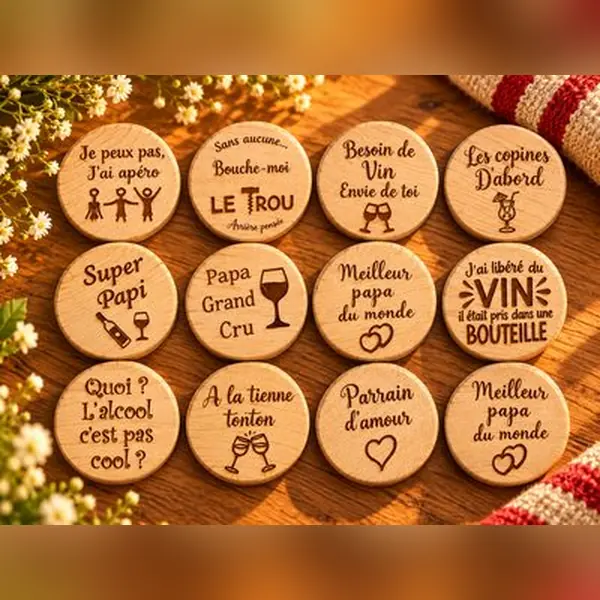
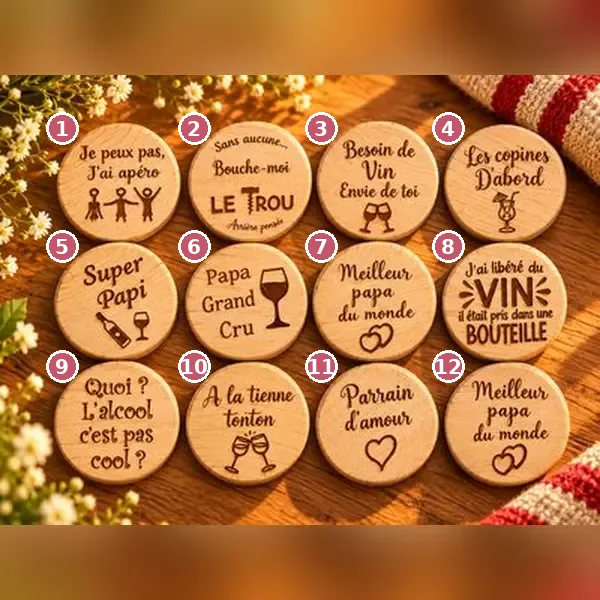
Bouchons gravés numérotés de 1 à 12
Claude-Session: https://claude.ai/code/session_014CUi3yv5VobeoiqZVvcMWi

diff --git a/site/index.html b/site/index.html
@@ -683,7 +683,7 @@ input[type=file]{padding:8px;font-size:.92rem}
     {"nom": "Sous-plat rond en bois", "tech": "bois", "techNom": "Gravure et découpe laser", "prix": 18, "champs": [{"id": "texte", "label": "Texte, prénom(s) ou date à graver", "requis": true}], "desc": "Une tranche de bois ou un rond gravé avec le nom de la famille, un message ou un souvenir.", "poids": 700, "imgs": ["images/sous-plat-rond-en-bois-1.webp", "images/sous-plat-rond-en-bois-2.webp", "images/sous-plat-rond-en-bois-3.webp"], "img": "images/sous-plat-rond-en-bois-1.webp", "alt": "Sous-plat rond en bois", "variantes": [{"label": "Modèle 1", "prix": 18, "img": 0}, {"label": "Modèle 2", "prix": 18, "img": 1}, {"label": "Modèle 3", "prix": 18, "img": 2}], "groupe": "Planches et plateaux"},
     {"nom": "Petit plateau gravé", "tech": "bois", "techNom": "Gravure et découpe laser", "prix": 15, "champs": [{"id": "texte", "label": "Texte, prénom(s) ou date à graver", "requis": true}], "desc": "Un petit plateau ovale gravé d'un dessin ou d'un message.", "poids": 400, "imgs": ["images/petit-plateau-grave-1.webp"], "img": "images/petit-plateau-grave-1.webp", "alt": "Petit plateau gravé", "groupe": "Planches et plateaux"},
     {"nom": "Plateau carré gravé", "tech": "bois", "techNom": "Gravure et découpe laser", "prix": 13.5, "champs": [{"id": "texte", "label": "Texte, prénom(s) ou date à graver", "requis": true}], "desc": "Un plateau carré gravé d'une scène de famille, d'un animal ou du dessin de votre choix.", "poids": 500, "imgs": ["images/plateau-carre-grave-1.webp", "images/plateau-carre-grave-2.webp", "images/plateau-carre-grave-3.webp", "images/plateau-carre-grave-4.webp"], "img": "images/plateau-carre-grave-1.webp", "alt": "Plateau carré gravé", "variantes": [{"label": "Modèle 1", "prix": 13.5, "img": 0}, {"label": "Modèle 2", "prix": 13.5, "img": 1}, {"label": "Modèle 3", "prix": 13.5, "img": 2}, {"label": "Modèle 4", "prix": 13.5, "img": 3}], "groupe": "Planches et plateaux"},
-    {"nom": "Bouchons gravés", "tech": "bois", "techNom": "Gravure et découpe laser", "prix": 2, "champs": [{"id": "texte", "label": "Texte, prénom(s) ou date à graver", "requis": true}], "desc": "Des bouchons de bouteille avec une phrase qui fait sourire.", "poids": 15, "imgs": ["images/bouchons-graves-1.webp"], "img": "images/bouchons-graves-1.webp", "alt": "Bouchons gravés", "prixTexte": "2 € · 5 € les 3", "options": [{"label": "1 bouchon", "prix": 2}, {"label": "Lot de 3", "prix": 5}], "groupe": "Apéro"},
+    {"nom": "Bouchons gravés", "tech": "bois", "techNom": "Gravure et découpe laser", "prix": 2, "champs": [{"id": "texte", "label": "Numéro(s) des modèles choisis (ex. 2, 6, 11) ou votre texte à graver", "requis": true}], "desc": "Des bouchons de bouteille avec une phrase qui fait sourire. Choisissez vos modèles par leur numéro sur la photo (1 à 12), ou proposez votre propre texte.", "poids": 15, "imgs": ["images/bouchons-graves-1.webp"], "img": "images/bouchons-graves-1.webp", "alt": "Bouchons gravés", "prixTexte": "2 € · 5 € les 3", "options": [{"label": "1 bouchon", "prix": 2}, {"label": "Lot de 3", "prix": 5}], "groupe": "Apéro"},
     {"nom": "Décapsuleur rond", "tech": "bois", "techNom": "Gravure et découpe laser", "prix": 5, "champs": [{"id": "texte", "label": "Texte, prénom(s) ou date à graver", "requis": true}], "desc": "Un décapsuleur rond gravé d'un message plein d'humour.", "poids": 40, "imgs": ["images/decapsuleur-rond-1.webp"], "img": "images/decapsuleur-rond-1.webp", "alt": "Décapsuleur rond", "groupe": "Apéro"},
     {"nom": "Décapsuleur à manche", "tech": "bois", "techNom": "Gravure et découpe laser", "prix": 5, "champs": [{"id": "texte", "label": "Texte, prénom(s) ou date à graver", "requis": true}], "desc": "Un décapsuleur avec manche en bois gravé, pour les apéros entre amis.", "poids": 60, "imgs": ["images/decapsuleur-a-manche-1.webp"], "img": "images/decapsuleur-a-manche-1.webp", "alt": "Décapsuleur à manche", "groupe": "Apéro"},
     {"nom": "Plateau étoile du Père Noël", "tech": "bois", "techNom": "Gravure et découpe laser", "prix": 15, "champs": [{"id": "texte", "label": "Texte, prénom(s) ou date à graver", "requis": true}], "desc": "Le plateau en étoile pour déposer le lait, les biscuits et les carottes des rennes le soir de Noël.", "poids": 600, "imgs": ["images/plateau-etoile-du-pere-noel-1.webp"], "img": "images/plateau-etoile-du-pere-noel-1.webp", "alt": "Plateau étoile du Père Noël", "groupe": "Noël"},
